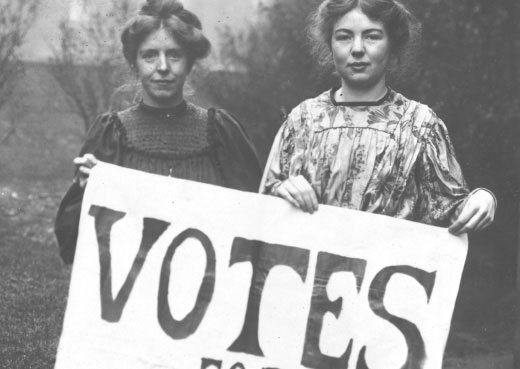
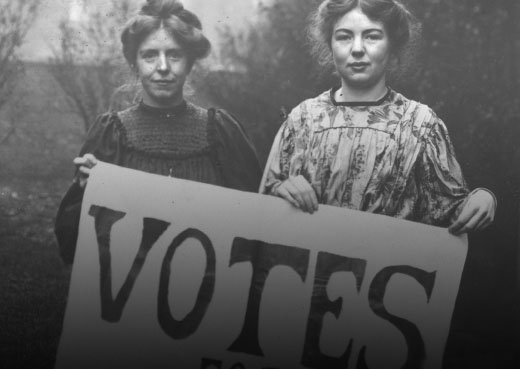
added PNGs

diff --git a/css/base-sass.css b/css/base-sass.css
@@ -3747,17 +3747,18 @@ body {
     margin: 0; }
   .tna-business-plan .bp-slides li {
     margin: 0; }
-  .tna-business-plan .bp-slides .slide-img-text {
-    padding: 1em 2em;
-    position: absolute;
-    bottom: 0px;
-    right: 0px;
-    text-align: right;
-    font-size: 1.4em; }
-    .tna-business-plan .bp-slides .slide-img-text img {
-      padding-bottom: 1em;
-      border-bottom: solid 5px #cd5806;
-      float: right; }
+.tna-business-plan .slide-img-text {
+  padding: 1em 2em;
+  position: absolute;
+  bottom: 0px;
+  right: 0px;
+  text-align: right;
+  font-size: 1.4em;
+  color: #fff; }
+  .tna-business-plan .slide-img-text img {
+    padding-bottom: 1em;
+    border-bottom: solid 5px #cd5806;
+    float: right; }
 .tna-business-plan .bp-tabs #archives-tab, .tna-business-plan .js .aria-tabs p, .tna-business-plan .no-js .aria-tabs ul {
   display: none; }
 @media print {

diff --git a/css/sass/_namespaces.scss b/css/sass/_namespaces.scss
@@ -463,18 +463,19 @@ body {
     li {
       margin: 0;
     }
-    .slide-img-text {
-      padding: 1em 2em;
-      position: absolute;
-      bottom: 0px;
-      right: 0px;
-      text-align: right;
-      font-size: 1.4em;
-      img {
-        padding-bottom: 1em;
-        border-bottom: solid 5px #cd5806;
-        float: right;
-      }
+  }
+  .slide-img-text {
+    padding: 1em 2em;
+    position: absolute;
+    bottom: 0px;
+    right: 0px;
+    text-align: right;
+    font-size: 1.4em;
+    color: #fff;
+    img {
+      padding-bottom: 1em;
+      border-bottom: solid 5px #cd5806;
+      float: right;
     }
   }
   .bp-tabs #archives-tab, .js .aria-tabs p, .no-js .aria-tabs ul {

diff --git a/business-plan.php b/business-plan.php
@@ -100,7 +100,10 @@ get_header(); ?>
                 </div>
                 <div class="col starts-at-full ends-at-half box clr">
                     <div class="tna-concept" style="height: 369px;background: url('<?php echo get_template_directory_uri(); ?>/images/business-plan/trust.jpg') center;background-size: cover;">
-
+                        <div class="slide-img-text">
+                            ARCHIVES INSPIRE<br>
+                            <img src="<?php echo get_template_directory_uri(); ?>/images/business-plan/trust.png" style="height: 60px;width: auto;" />
+                        </div>
                     </div>
                 </div>
             </section>
@@ -261,7 +264,7 @@ get_header(); ?>
                 </div>
                 <div class="col starts-at-full ends-at-half box clr">
                     <div class="tna-concept" style="height: 369px;background: url('<?php echo get_template_directory_uri(); ?>/images/business-plan/digital.jpg') center;background-size: cover;">
-                        
+
                     </div>
                 </div>
             </section>
